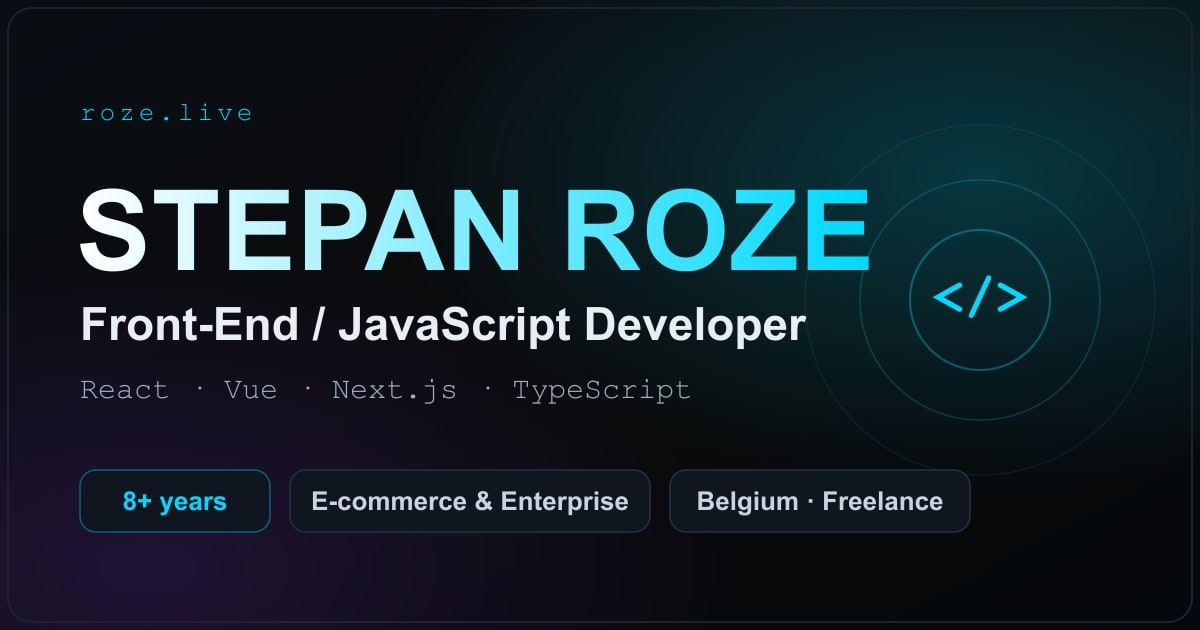
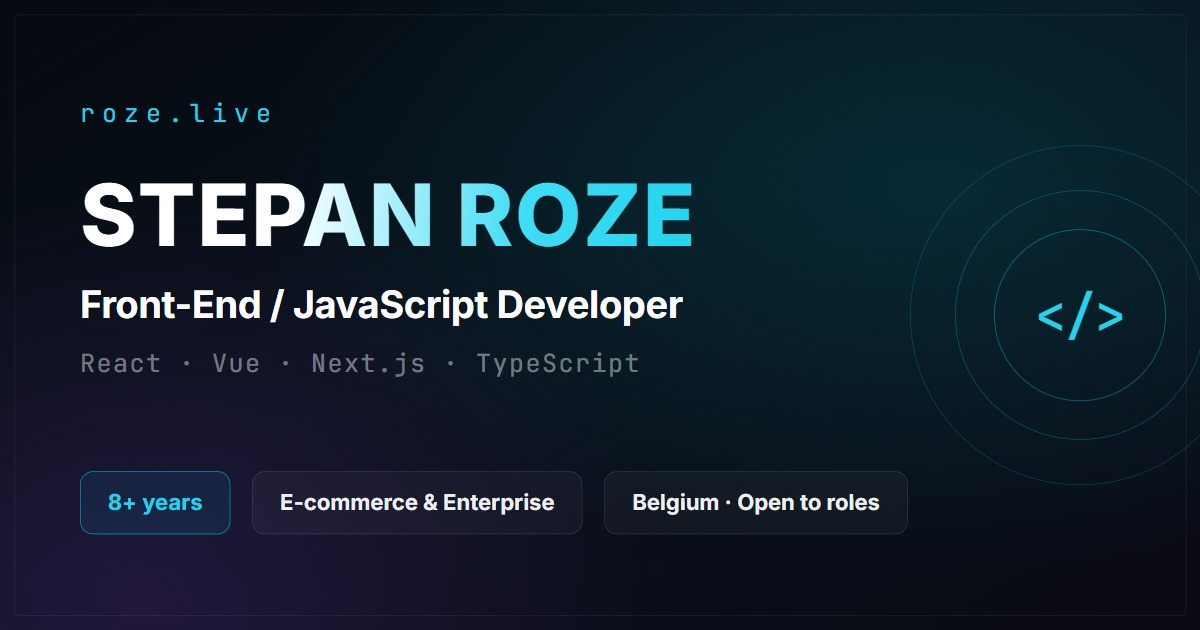
Stop the share card saying "Freelance"
The OG card is the highest-visibility surface in a job search — it is what a
recruiter sees when the link is pasted into LinkedIn or a message, before
they open anything. Its last badge read "Belgium · Freelance", which is the
exact positioning the previous commit removed from the title, description and
structured data. Now "Belgium · Open to roles".

Design is unchanged: same layout, palette, type and rings, rebuilt from
tools/og-image.html and rendered at 1200x630. Keeping the source next to the
output means the card can be corrected again without redrawing it by hand.

diff --git a/tools/og-image.html b/tools/og-image.html
@@ -1,0 +1,77 @@
+<!doctype html>
+<html>
+<head>
+<meta charset="utf-8">
+<link rel="preconnect" href="https://fonts.googleapis.com">
+<link rel="preconnect" href="https://fonts.gstatic.com" crossorigin>
+<link href="https://fonts.googleapis.com/css2?family=Inter:wght@400;600;700;800&family=JetBrains+Mono:wght@400;500&display=swap" rel="stylesheet">
+<style>
+  * { margin:0; padding:0; box-sizing:border-box; }
+  body { width:1200px; height:630px; overflow:hidden; }
+  .card {
+    position:relative; width:1200px; height:630px;
+    background:
+      radial-gradient(1100px 620px at 78% 30%, rgba(0,180,200,0.16), transparent 62%),
+      radial-gradient(900px 700px at 12% 96%, rgba(90,40,140,0.30), transparent 60%),
+      linear-gradient(150deg, #060a10 0%, #08111a 45%, #0a0a14 100%);
+    font-family:'Inter', system-ui, sans-serif; color:#fff; overflow:hidden;
+  }
+  .frame { position:absolute; inset:14px; border:1px solid rgba(255,255,255,0.07); border-radius:6px; }
+  .rings { position:absolute; right:120px; top:315px; transform:translate(50%,-50%); }
+  .ring { position:absolute; border:1px solid rgba(0,217,255,0.20); border-radius:50%; transform:translate(-50%,-50%); }
+  .r1 { width:340px; height:340px; }
+  .r2 { width:250px; height:250px; border-color:rgba(0,217,255,0.28); }
+  .r3 { width:172px; height:172px; border-color:rgba(0,217,255,0.42); }
+  .glyph {
+    position:absolute; transform:translate(-50%,-50%);
+    font-family:'JetBrains Mono', monospace; font-size:52px; font-weight:500;
+    color:#22d3ee; letter-spacing:-1px;
+  }
+  .body { position:absolute; left:80px; top:96px; }
+  .domain {
+    font-family:'JetBrains Mono', monospace; font-size:25px; font-weight:400;
+    color:#22d3ee; letter-spacing:7px; margin-bottom:44px;
+  }
+  h1 {
+    font-size:86px; font-weight:800; letter-spacing:1.5px; line-height:1;
+    background:linear-gradient(96deg,#ffffff 0%,#ffffff 34%,#3fdcf5 72%,#22d3ee 100%);
+    -webkit-background-clip:text; background-clip:text; color:transparent;
+    margin-bottom:22px;
+  }
+  h2 { font-size:38px; font-weight:700; letter-spacing:-0.4px; margin-bottom:20px; }
+  .stack {
+    font-family:'JetBrains Mono', monospace; font-size:25px; font-weight:400;
+    color:rgba(255,255,255,0.42); letter-spacing:1.5px;
+  }
+  .badges { position:absolute; left:80px; bottom:96px; display:flex; gap:22px; }
+  .badge {
+    padding:17px 27px; border-radius:13px; font-size:22px; font-weight:700;
+    border:1px solid rgba(255,255,255,0.11); background:rgba(255,255,255,0.035);
+    color:rgba(255,255,255,0.93); white-space:nowrap;
+  }
+  .badge.accent { border-color:rgba(0,217,255,0.55); color:#22d3ee; background:rgba(0,217,255,0.07); }
+</style>
+</head>
+<body>
+  <div class="card">
+    <div class="frame"></div>
+    <div class="rings">
+      <div class="ring r1"></div>
+      <div class="ring r2"></div>
+      <div class="ring r3"></div>
+      <div class="glyph">&lt;/&gt;</div>
+    </div>
+    <div class="body">
+      <div class="domain">roze.live</div>
+      <h1>STEPAN ROZE</h1>
+      <h2>Front-End / JavaScript Developer</h2>
+      <div class="stack">React &middot; Vue &middot; Next.js &middot; TypeScript</div>
+    </div>
+    <div class="badges">
+      <div class="badge accent">8+ years</div>
+      <div class="badge">E-commerce &amp; Enterprise</div>
+      <div class="badge">Belgium &middot; Open to roles</div>
+    </div>
+  </div>
+</body>
+</html>
